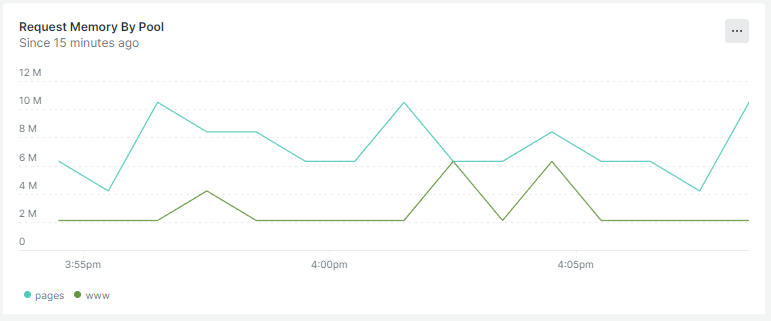
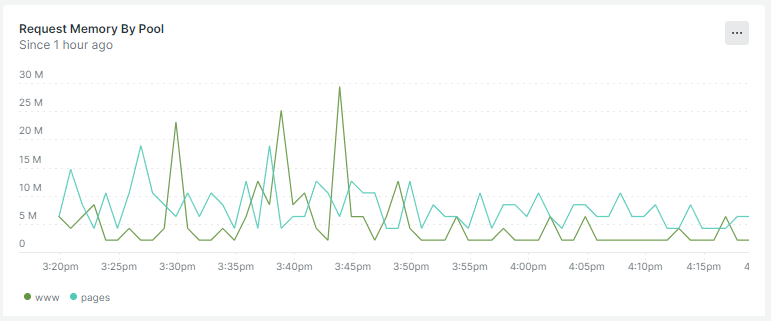
Memory Limit of pages to 128, the php default

diff --git a/README.md b/README.md
@@ -317,9 +317,11 @@ The default value is defined by [pool](#configure-php-fpm-pool):
 
 You may increase this values in the [pool configuration](#configure-php-fpm-pool)
 
-They are maximum, the memory used on a request by request basis are way lower (between 2 and 12M).
+They are maximum, the memory used on a request by request basis are way lower (between 2 and 30M).
 
 ![Request memory](resources/monitoring-graphs/monitoring-request-memory-vignette.png)
+
+Why? Because dokuwiki loads the images and index in memory for processing.
 
 ### Test a load
 
